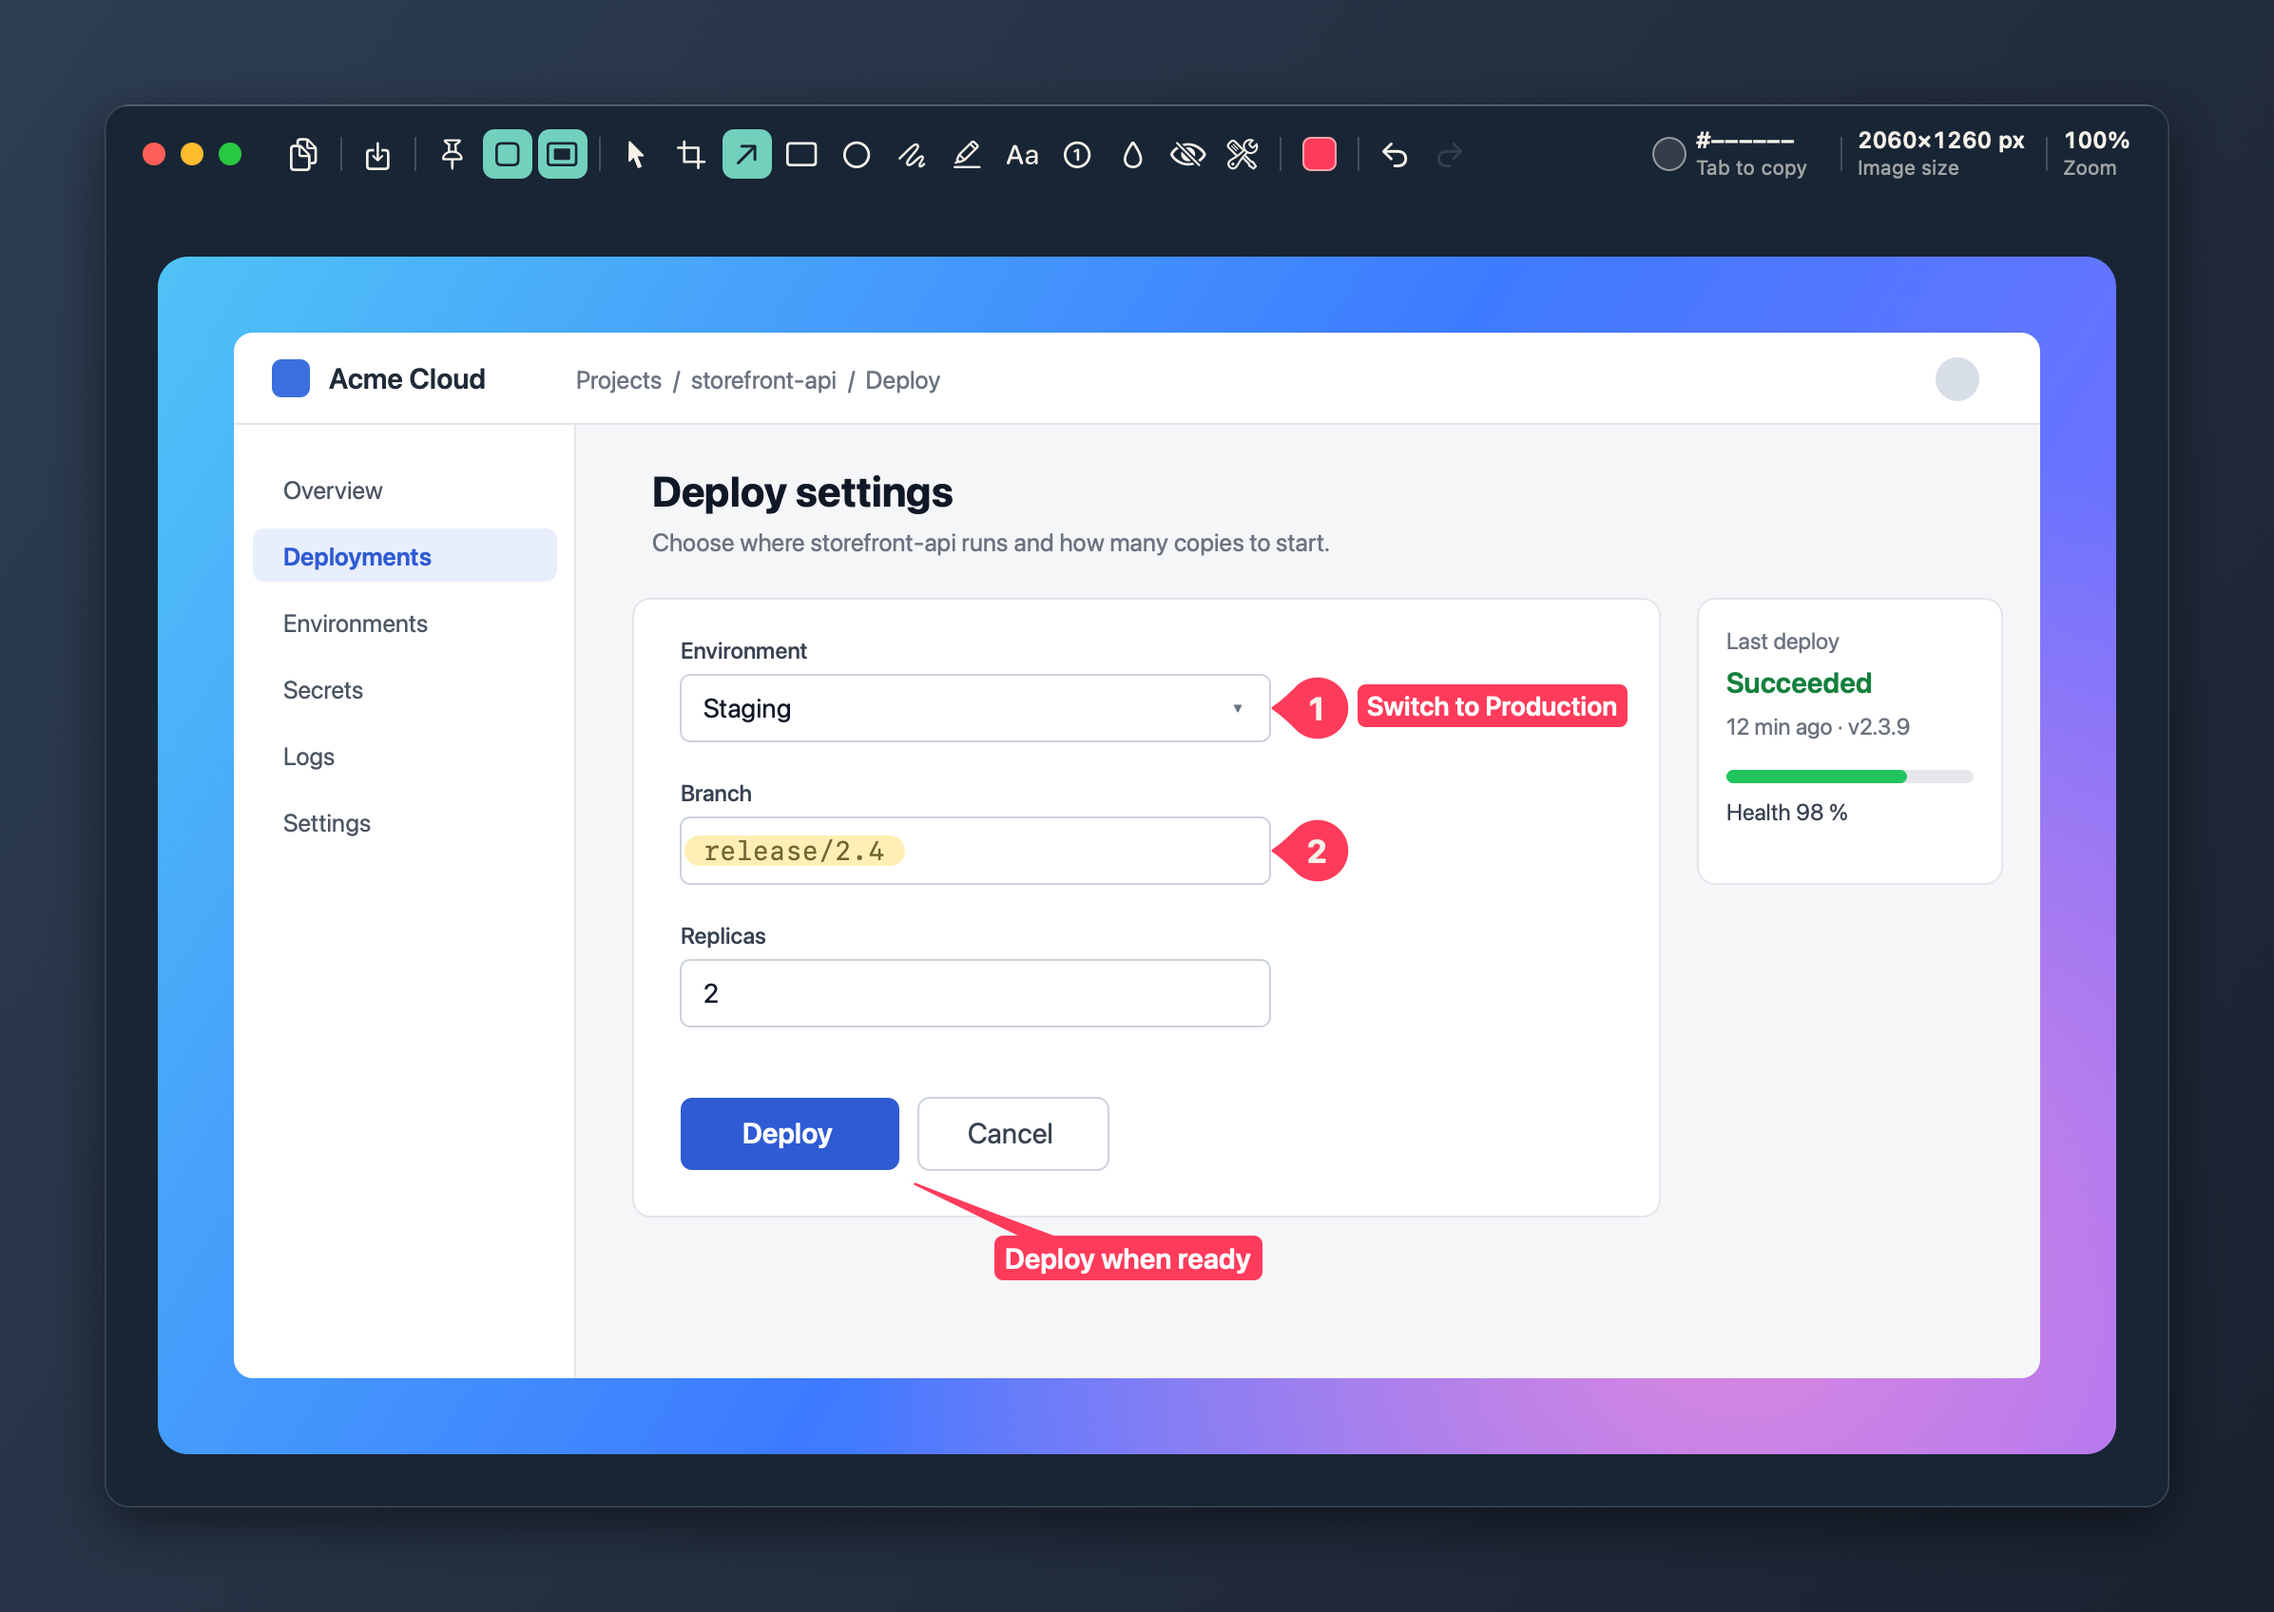
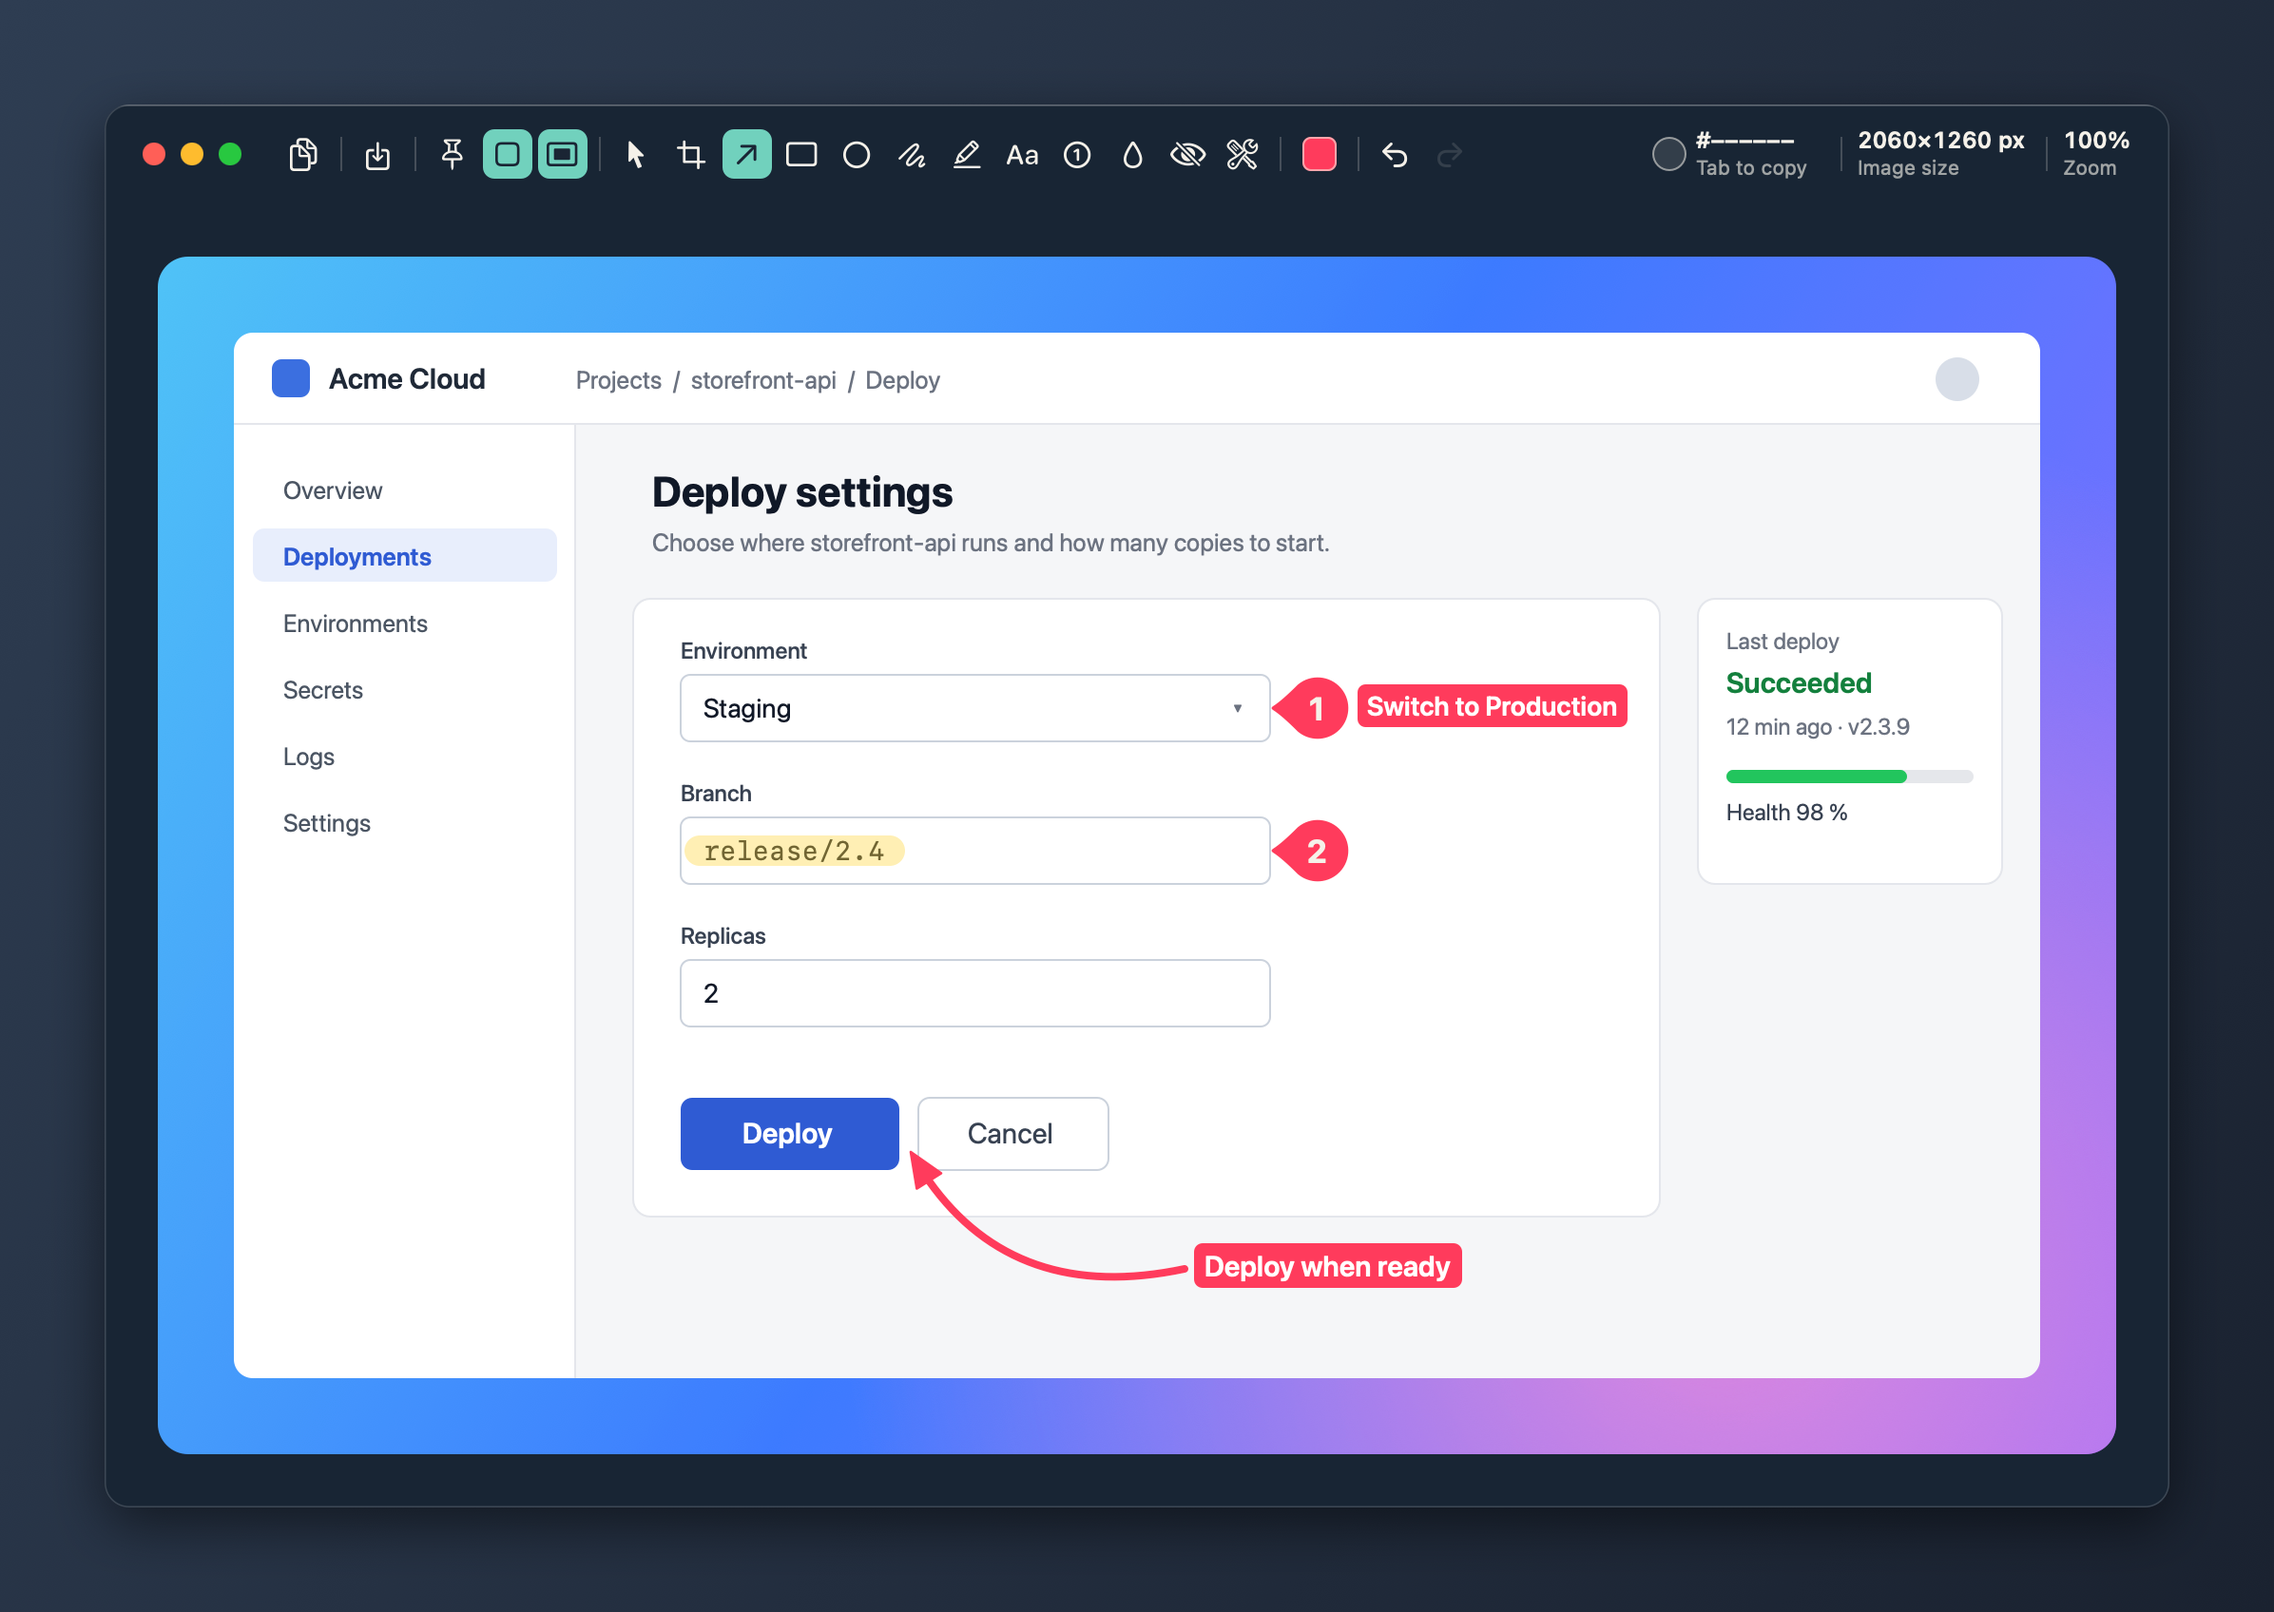
Hero picture: curved arrow

Changed region(s): [[0.4022, 0.7188, 0.6497, 0.8125]]

diff --git a/README.md b/README.md
@@ -15,7 +15,7 @@ macOS 14 or later · Apple Silicon and Intel · Free
 
 <br>
 
-<img src="docs/images/hero-editor.png" alt="The TrickShot editor with a web console screenshot on a blue gradient padding, annotated with step numbers pointing at the fields, a highlighted value, a label and a speech bubble pointing at the Deploy button" width="880">
+<img src="docs/images/hero-editor.png" alt="The TrickShot editor with a web console screenshot on a blue gradient padding, annotated with step numbers pointing at the fields, a highlighted value, a label and a curved arrow to the Deploy button" width="880">
 
 </div>
 
